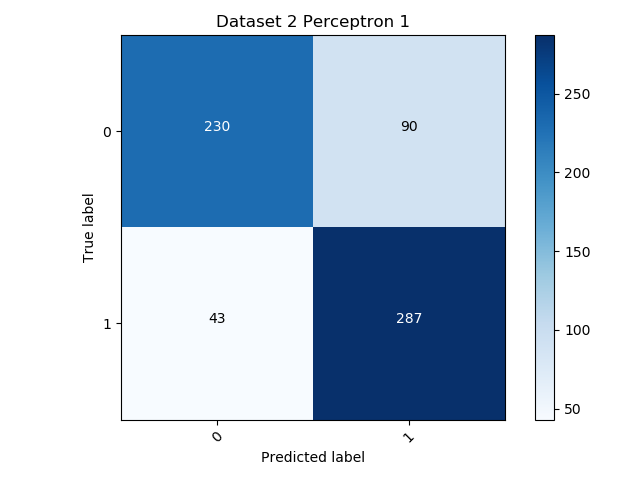
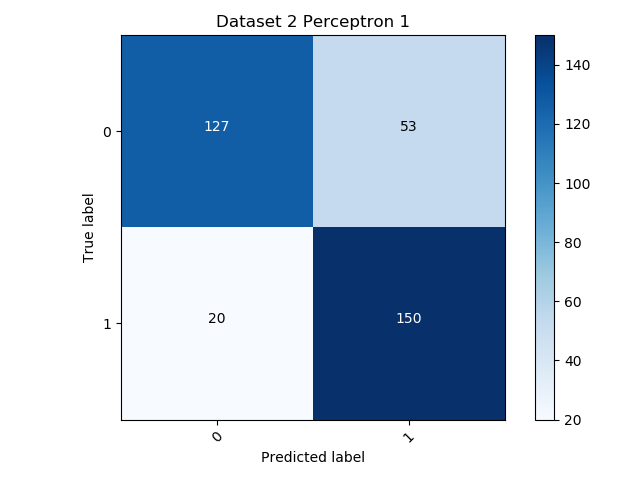
made some changes; created first set of plots; need to debug further

diff --git a/PA2/pa2.py b/PA2/pa2.py
@@ -2,15 +2,14 @@ import numpy as np
 from sklearn.metrics import confusion_matrix
 import confusion_matrix as cf_mat
 import matplotlib.pyplot as plt
+from random import randint
+
+np.random.seed(seed=42)
 
 def correctlyClassified(w, X, y):
-    for i in range(X.shape[0]):
-        pred = np.matmul(w, X[i])
-        if (pred <= 0) and (y[i] == 1):
-            return False
-        elif (pred >= 0) and (y[i] == 0):
-            return False
-    return True
+    predvals = predictions(w, X)
+    preds = (predvals == y)
+    return preds.all()
 
 def predictions(w, X):
     preds = []
@@ -22,18 +21,29 @@ def predictions(w, X):
             preds.append(1)
     return np.array(preds)
 
-def costFunction(w, X, y):
-    cost = 0
-    for i in range(X.shape[0]):
-        pred = np.matmul(w, X[i])
-        if y[i] == 0:
-            cost = cost - pred
-        else:
-            cost = cost + pred
-    return (-1 * cost)
+# check if this is useful or not necessary
+def errFunction(w, X, y):
+    err = 0
+    predvals = predictions(w, X)
+    preds = (predvals == y)
+    for i in range(len(preds)):
+        if not(preds[i]):
+            if y[i] == 0:
+                err = err + predvals[i]
+            else:
+                err = err - predvals[i]
+    return err
+
+def accuracy(w, X, y):
+    predvals = predictions(w, X)
+    preds = (predvals == y)
+    corrClass = sum(preds)
+    acc = (100.0*corrClass)/(X.shape[0]+0.0)
+    return acc
 
 def runPerceptron(w, X, y, eta):
     iter = 0
+    # check this
     while (iter <= 10000 and not(correctlyClassified(w, X, y))):
         for i in range(X.shape[0]):
             pred = np.matmul(w, X[i])
@@ -44,12 +54,9 @@ def runPerceptron(w, X, y, eta):
         iter = iter + 1
     return w
 
-# Compute confusion matrix
-# change this to test data
-def getConfusion(y_train, prediction, name) :
-    # confusion matrix for test - change this...
-    cnf_matrix = confusion_matrix(y_train, prediction)
-    class_names = np.unique(prediction, return_counts=False)
+def getConfusion(y, pred, name) :
+    cnf_matrix = confusion_matrix(y, pred)
+    class_names = np.unique(pred, return_counts=False)
     np.set_printoptions(precision=2)
     # Plot non-normalized confusion matrix
     plt.figure()
@@ -58,10 +65,14 @@ def getConfusion(y_train, prediction, name) :
     # plt.show()
     return
 
-np.random.seed(seed=42)
-
 # read datasets
 data1 = np.loadtxt("../Datasets_PRML_A2/Dataset_2_Team_39.csv", delimiter=',', dtype=None)
+plt.scatter(data1[:,0],data1[:,1],c=data1[:,2])
+plt.savefig("results/Dataset2_scatter")
+
+data2 = np.loadtxt("../Datasets_PRML_A2/Dataset_4_Team_39.csv", delimiter=',', dtype=None)
+plt.scatter(data2[:,0],data2[:,1],c=data2[:,2])
+plt.savefig("results/Dataset4_scatter")
 
 # shuffling
 np.random.shuffle(data1)
@@ -76,6 +87,9 @@ y_train = data1[:train_size,-1]
 X_test = data1[train_size:train_size+test_size,:2]
 y_test = data1[train_size:train_size+test_size,-1]
 
+mini = np.min(X_train, axis=0)
+maxi = np.max(X_train, axis=0)
+
 print("Dataset 2")
 print("Number of features = 2")
 print("Size of train and test sets =", X_train.shape, X_test.shape)
@@ -89,7 +103,77 @@ w_init = np.array(np.random.rand(2))
 print("Initial w =", w_init)
 
 etas = [0.01, 0.1, 1, 10]
-for i in range(len(etas)):
-    w_trained = runPerceptron(w_init, X_train, y_train, etas[i])
-    print(etas[i], w_trained, costFunction(w_trained, X_train, y_train))
-    getConfusion(y_train, predictions(w_trained, X_train), "Dataset 2 Perceptron "+str(i))
+# for i in range(len(etas)):
+#     w_train = runPerceptron(w_init, X_train, y_train, etas[i])
+#     print(etas[i], w_train, accuracy(w_train, X_train, y_train))
+#     w_test = runPerceptron(w_init, X_test, y_test, etas[i])
+#     print(etas[i], w_test, accuracy(w_test, X_test, y_test))
+#     getConfusion(y_test, predictions(w_test, X_test), "Dataset 2 Perceptron "+str(i))
+
+# decision boundary plot for dataset 2
+fig = plt.figure()
+# Train scatter plot
+plt.plot(X_train[y_train==0][:,0],X_train[y_train==0][:,1],'.',c='r',label="class 0")
+plt.plot(X_train[y_train==1][:,0],X_train[y_train==1][:,1],'.',c='b',label="class 1")
+
+# Contour plots
+# x,y = getContour(mini,maxi,means[0,:],cov_rand,"Reds", fig)
+# plt.contour(x,y,colors=['red'])
+# x,y = getContour(mini,maxi,means[1,:],cov_rand,"Blues", fig)
+# plt.contour(x,y,colors=['blue'])
+#
+xy = np.mgrid[mini[0]:maxi[0]:0.1, mini[1]:maxi[1]:0.1].reshape(2,-1)
+
+class1x,class1y = [],[]
+class2x,class2y = [],[]
+
+X_data = np.transpose(xy)
+y_data = np.zeros((X_data.shape[0],1))
+
+# pred, acc = f.getModel(X_data, y_data, means, cov_rand, lossfunction, prior, "naive", "same")
+eta = 1 # change to best eta
+w = runPerceptron(w_init, X_data, y_data, eta)
+print("eta =", eta, "w =", w, "accuacy =", accuracy(w, X_data, y_data))
+pred = predictions(w, X_data)
+
+plt.scatter(X_data[pred==0,0], X_data[pred==0,1], color='orangered')
+plt.scatter(X_data[pred==1,0], X_data[pred==1,1], color='deepskyblue')
+
+plt.xlabel("x1")
+plt.ylabel("y1")
+plt.title("Decision boundary for Dataset 2")
+
+plt.savefig("results/boundary1.png")
+
+# shuffling
+# np.random.shuffle(data2)
+#
+# # splitting into train, test - 65, 35
+# train_size = int(0.65*data2.shape[0])
+# test_size = int(0.35*data2.shape[0])
+#
+# X_train = data2[:train_size,:2]
+# y_train = data2[:train_size,-1]
+#
+# X_test = data2[train_size:train_size+test_size,:2]
+# y_test = data2[train_size:train_size+test_size,-1]
+#
+# print("Dataset 4")
+# print("Number of features = 2")
+# print("Size of train and test sets =", X_train.shape, X_test.shape)
+# classes, counts = np.unique(y_train, return_counts=True)
+# print("Number of classes =", len(classes))
+# print("Counts for each class =", counts)
+# print("\n")
+#
+# # random initial choice of w
+# w_init = np.array(np.random.rand(2))
+# print("Initial w =", w_init)
+#
+# etas = [0.01, 0.1, 1, 10]
+# for i in range(len(etas)):
+#     w_train = runPerceptron(w_init, X_train, y_train, etas[i])
+#     print(etas[i], w_train, accuracy(w_train, X_train, y_train))
+#     w_test = runPerceptron(w_init, X_test, y_test, etas[i])
+#     print(etas[i], w_test, accuracy(w_test, X_test, y_test))
+#     getConfusion(y_test, predictions(w_test, X_test), "Dataset 4 Perceptron "+str(i))
